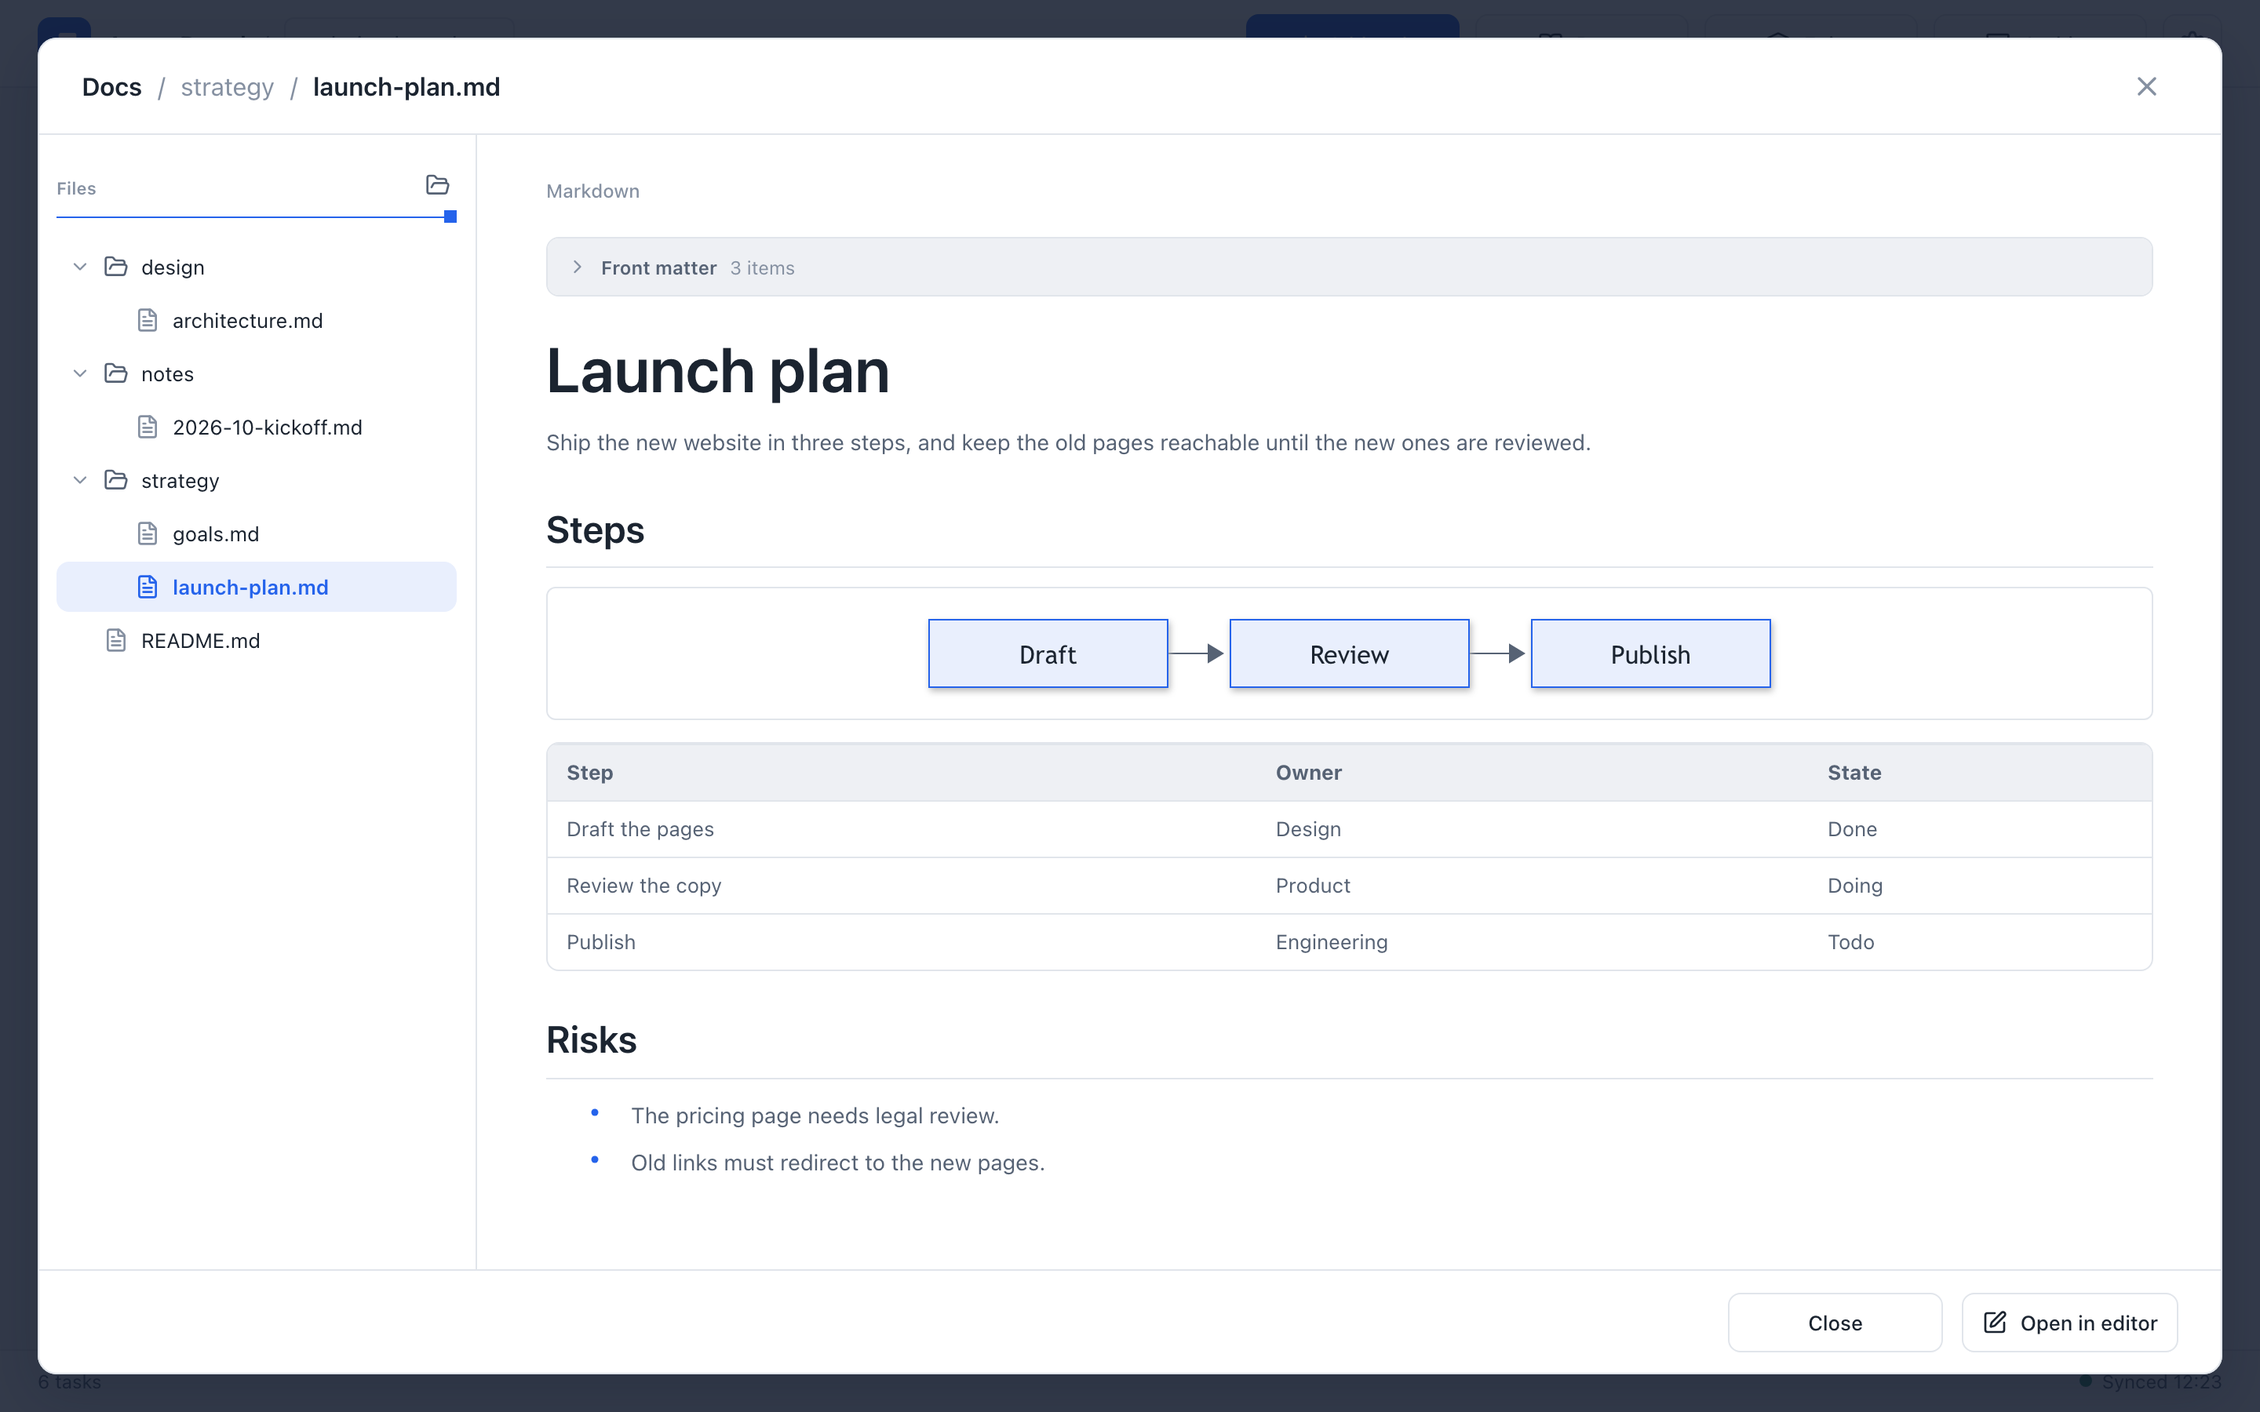
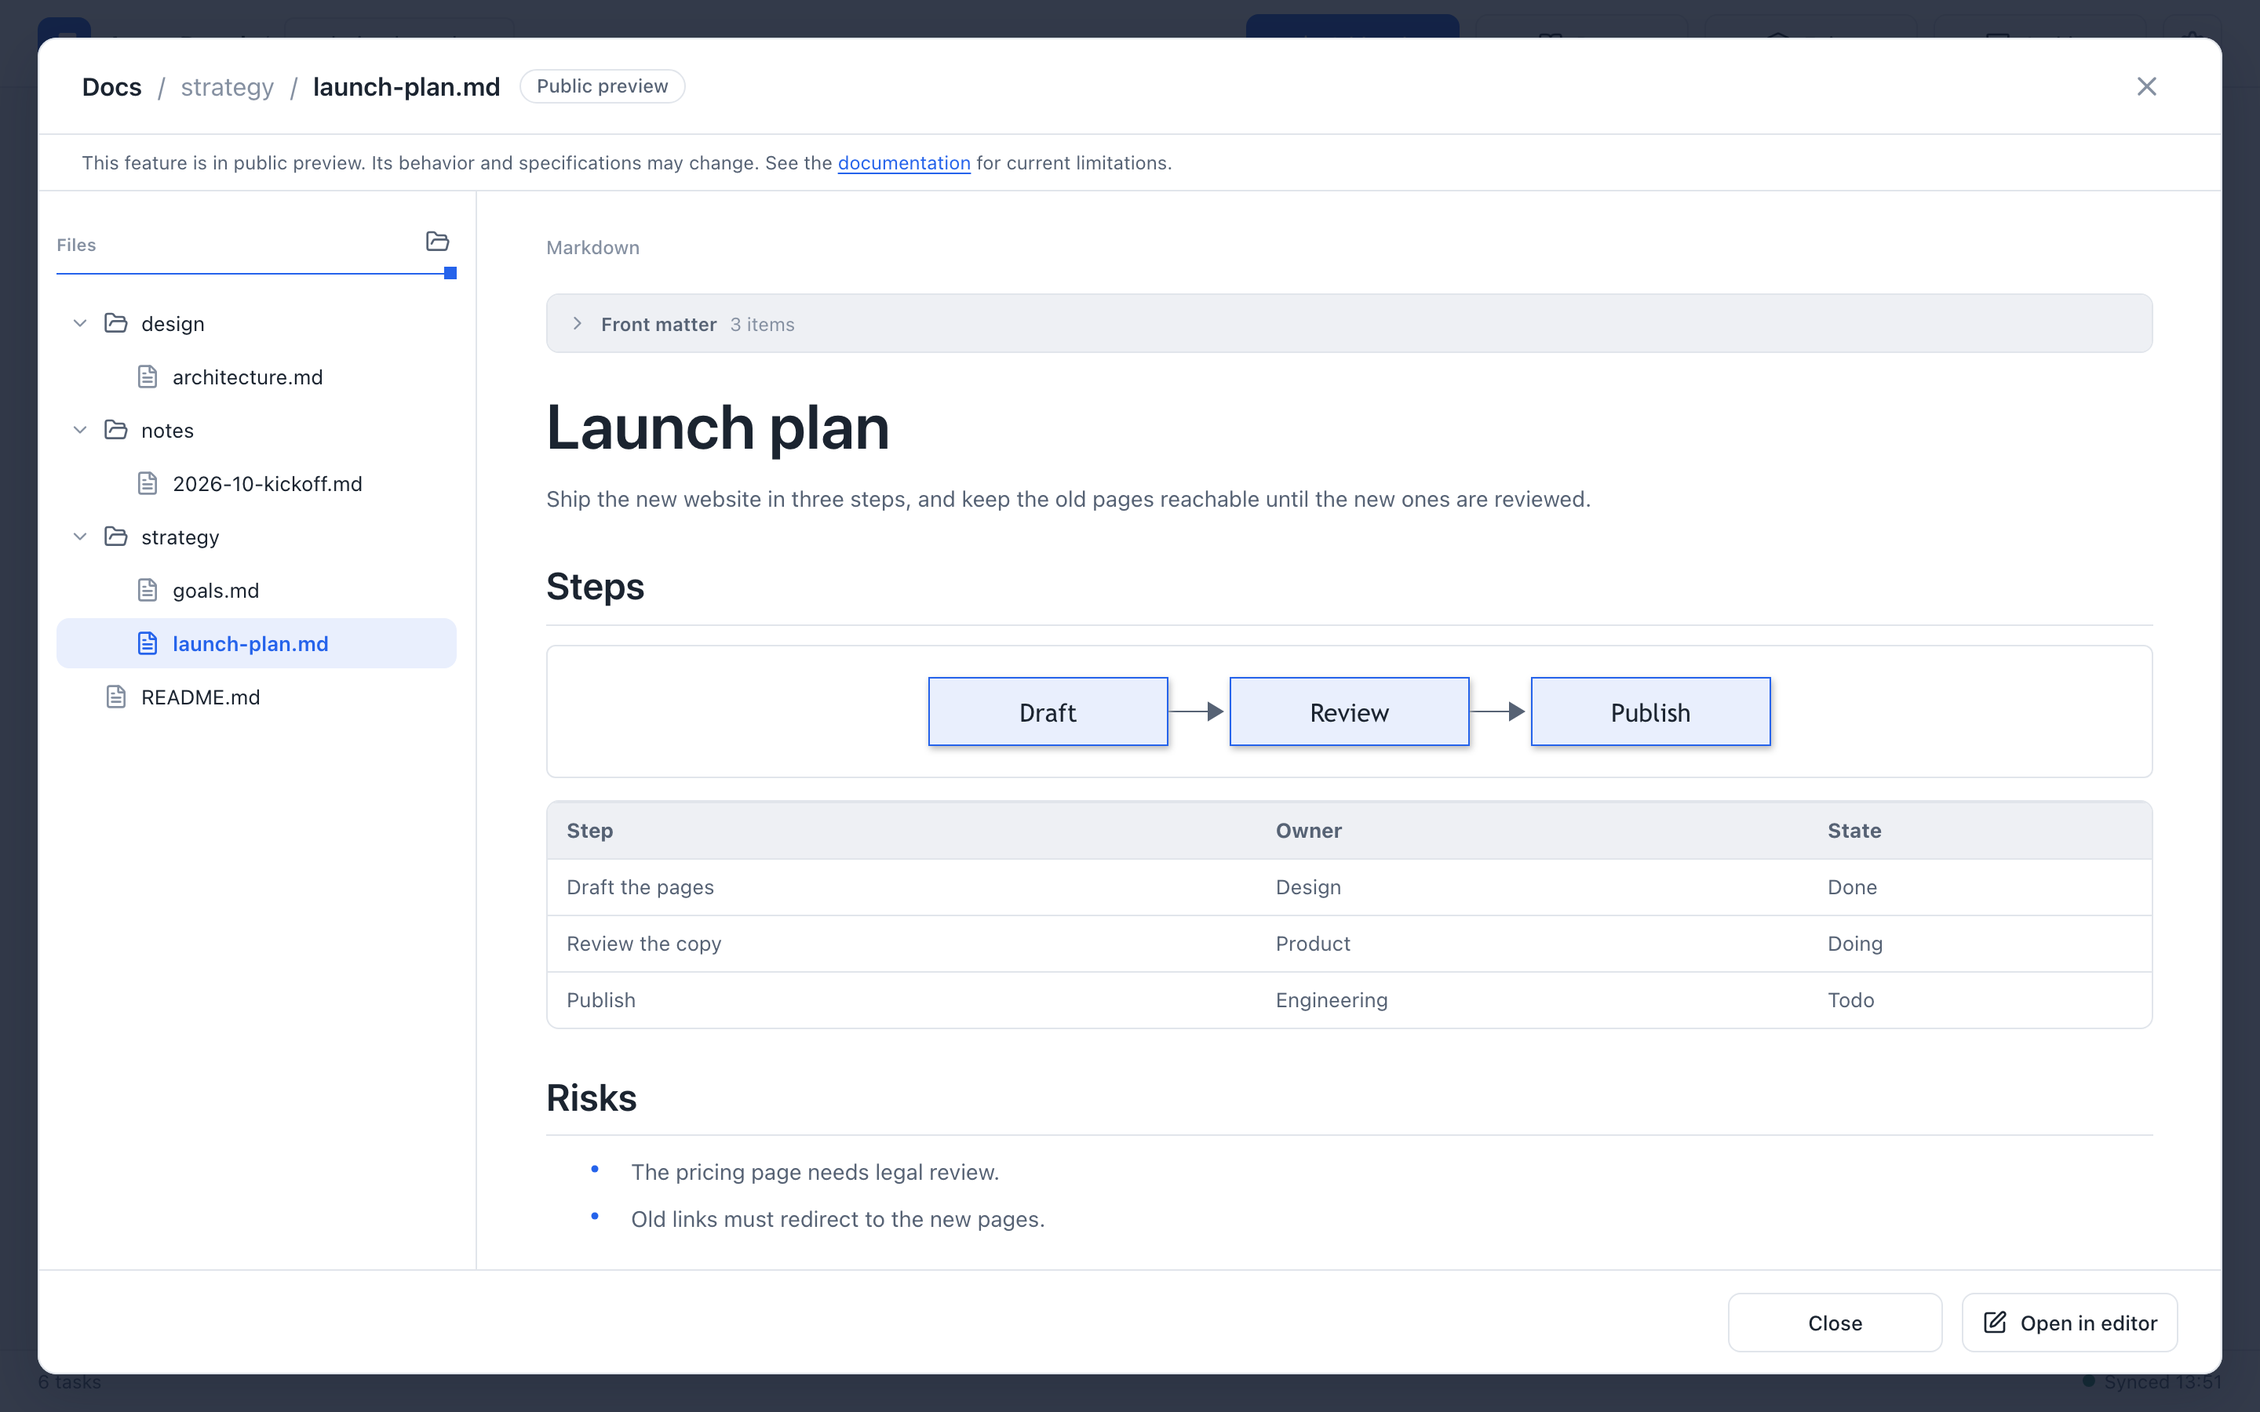
docs: explain GA and public preview features in English and Japanese

diff --git a/docs/ja/guide/feature-stages.md b/docs/ja/guide/feature-stages.md
@@ -1,0 +1,96 @@
+---
+title: 機能の提供段階
+---
+
+# 機能の提供段階
+
+Agent Board v1.0.0の機能は、一般提供（GA）とパブリックプレビューのどちらかの段階にあります。このページでは、それぞれの段階の意味、各段階の機能、プレビューの機能を使う前に知っておきたい制約をまとめます。v1.0.0にはどちらの段階も含まれていて、すべての機能がGAというわけではありません。
+
+## 段階の意味
+
+| 段階 | 意味 | 意味しないこと |
+| --- | --- | --- |
+| 一般提供（GA） | このガイドの説明どおりに動作し、当面はその仕様で運用していく機能です。今後の変更は、機能を足す方向を想定しています。 | 不具合がないことを意味しません。互換性やサポートを無期限に保証するものでもありません。 |
+| パブリックプレビュー | 試していただくために公開している機能です。今後の版で動作や仕様が変わる可能性があり、後述の制約があります。 | 機能の利用を制限したり、ライセンスを変えたりするものではありません。 |
+
+段階は、その機能が今後どれだけ変わりうるかを表します。どれだけ入念に試験したかを表すものではありません。よく使われる機能が、それだけでGAになるわけでもありません。
+
+## 製品内の表示
+
+パブリックプレビューの機能は、使う前に次の注意を表示します。
+
+> この機能はパブリックプレビューです。仕様や動作が変更される可能性があります。現在の制約はドキュメントをご確認ください。
+
+表示される場所は次のとおりです。
+
+| 機能 | 表示される場所 |
+| --- | --- |
+| [Docs](#docs) | Docsダイアログの見出しに「パブリックプレビュー」のバッジが付き、その下に注意文とこのページへのリンクが出ます。 |
+| [モバイルモニター](#mobile-monitor) | パソコンの「モバイル接続」ダイアログにバッジ、注意文、このページへのリンクが出ます。スマートフォンのモニターには出ません。 |
+| [初回の案内](#onboarding) | 最初の画面のタイトルの横にバッジが出ます。 |
+| [connectとupdate](#connect-and-update) | 対話画面の先頭に1行出ます。`Public preview: this command may change. See the documentation for current limitations.` `update --yes`は質問をしないため、この行を出しません。 |
+| [タスクの受け取り](#listen) | 画面はありません。このページとエージェントのSkillで説明します。 |
+
+GAの機能には、この表示はありません。
+
+## 一般提供（GA）の機能
+
+| 機能 | 対応範囲 | 既知の制約 | ガイド |
+| --- | --- | --- | --- |
+| タスクと作業状態 | macOS、パソコンのブラウザ、モバイルモニターでの閲覧 | Done・下書き・アーカイブのタスクは、エージェントが変更できません。 | [ボード](./use/board) |
+| 受入条件と履歴 | 同上 | 履歴の項目は、日時（`at`）と理由（`reason`）の2つだけです。 | [ボード](./use/board)、[Markdownファイルの形式](./automation/file-format) |
+| 本文の編集と画像 | パソコンのブラウザ | 画像には大きさの上限があります。 | [編集と画像添付](./use/editing) |
+| アーカイブと削除 | パソコンのブラウザ | 削除できるのは人だけです。 | [アーカイブ](./use/board#archive) |
+| 判断依頼と回答 | パソコン、モバイルモニター、CLI | エージェントは、既定では期限なしで回答を待ちます。`agboard serve`が動いている必要があります。 | [判断依頼](./use/decisions) |
+| エピックと進行表 | パソコンのブラウザ、CLI | 進行表にはPendingのタスクを含めません。 | [エピックと進行表](./use/epics) |
+| プロジェクトと作業フォルダ | CLI、パソコンのブラウザ | フォルダがどのプロジェクトに属するかは、最も近いbindで決まります。 | [CLIリファレンス](./automation/cli#projects) |
+| データの保存と復旧 | macOS | `formatVersion`が1のファイルだけに対応します。 | [データとバックアップ](./operations/data) |
+| 表示言語とテーマ | パソコン、モバイルモニター | 日本語と英語、24のテーマです。 | [設定](./use/board#settings) |
+| エージェント向けのCLI・JSON出力・Hook・`wait` | Claude Code、Codex CLI | HookとSkillは、導入しないと使えません。エージェントの起動は人が行います。 | [エージェントとの連携](./automation/agents) |
+
+## パブリックプレビューの機能
+
+### Docs {#docs}
+
+Docsダイアログで、プロジェクトの`docs/`フォルダにあるファイルを一覧して読めます。機能は今も変わり続けています。
+
+- **対応範囲:** パソコンのブラウザのボード。モバイルモニターにはDocsを表示しません。
+- **制約:** MarkdownとMDXのファイルは2 MiBまで、画像は10 MiBまでです。
+- **ガイド:** [プロジェクトのドキュメント](./use/docs)
+
+### connectとupdate {#connect-and-update}
+
+`agboard connect`は、Claude CodeとCodexにSkillとHookを導入します。`agboard update`は、`connect`が導入したものを、お使いのコマンドの版にそろえます。
+
+- **対応範囲:** macOS。`PATH`上にClaude CodeやCodex CLIが見つかる環境です。
+- **制約:** `update --yes`を除き、どちらのコマンドも対話式です。Hookが変わったときは、エージェントで信頼し直す必要があります。`update`が古い版を入れ直すことはありません。エージェントごとの範囲指定、ドライラン、JSON出力はありません。今後加わる可能性があります。
+- **ガイド:** [エージェントとの連携](./automation/agents#connect-your-agent)、[CLIリファレンス](./automation/cli#connect-and-update)
+
+### タスクの受け取り {#listen}
+
+`agboard wait --until task`で、開いているClaude CodeやCodexの1つのセッションが、AIのタスクを続けて受け取れます。
+
+- **対応範囲:** Claude CodeとCodex。エージェントのSkillにある手順に従います。
+- **制約:** 複数のセッションが同じタスクを受け取らないことは保証しません。連続して実行する操作は、人がエージェントのセッションで始めます。
+- **ガイド:** [次のタスクを待つ](./automation/agents#listen-for-the-next-task)
+
+### モバイルモニター {#mobile-monitor}
+
+モバイルモニターは、スマートフォンでボードを確認し、エージェントの質問に答えるための画面です。
+
+- **対応範囲:** スマートフォンのブラウザ。ngrokを経由します。
+- **制約:** ngrokに依存し、HTTPSはngrokで終端されます。パソコンが起動していて、`agboard serve`が動いている間だけ使えます。接続の方式は今後変わる可能性があります。
+- **ガイド:** [モバイルモニター](./operations/mobile-monitor)
+
+### 初回の案内 {#onboarding}
+
+ボードを初めて開くと、2枚のサンプルカードで、エージェントがカードで作業し、判断を求める流れを短く案内します。
+
+- **対応範囲:** パソコンのブラウザのボード。
+- **制約:** データ領域にすでにプロジェクトがあるときと、モバイルモニターでは表示しません。
+- **ガイド:** [初回の案内](./use/board#the-first-run-guide)、[クイックスタート](./quickstart#before-you-start-the-first-run-guide)
+
+## 関連
+
+- [インストールと起動](./getting-started)
+- [リリースノート](/ja/releases)

diff --git a/docs/guide/feature-stages.md b/docs/guide/feature-stages.md
@@ -1,0 +1,96 @@
+---
+title: Feature stages
+---
+
+# Feature stages
+
+Every feature in Agent Board v1.0.0 is in one of two stages: general availability (GA) or public preview. This page explains what each stage means, lists the features in each, and states the limits you should know before you rely on a preview feature. Version 1.0.0 mixes both stages, so not every feature in it is GA.
+
+## What the stages mean
+
+| Stage | What it means | What it does not mean |
+| --- | --- | --- |
+| General availability (GA) | The feature works the way it is described in this guide, and we plan to keep it that way for a good while. Later changes are meant to add to it. | It does not mean the feature is free of bugs. It is not a promise of unlimited compatibility or support. |
+| Public preview | The feature is published so you can try it. Its behavior and specifications may change in a later version, and the limits listed below apply. | It does not restrict what you can do with the feature or change its license. |
+
+The stage describes how much the feature may still change. It does not say how thoroughly the feature has been tested, and a feature does not become GA just because it is used often.
+
+## Notice in the product
+
+A public preview feature tells you before you use it. The notice says:
+
+> This feature is in public preview. Its behavior and specifications may change. See the documentation for current limitations.
+
+Where you see it:
+
+| Feature | Where the notice appears |
+| --- | --- |
+| [Docs](#docs) | The heading of the Docs dialog shows a **Public preview** badge, with the notice and a link to this page below it. |
+| [Mobile monitor](#mobile-monitor) | The **Mobile connection** dialog on the computer shows the badge, the notice, and a link to this page. The monitor on the phone does not show it. |
+| [First-run welcome](#onboarding) | The first screen shows the badge next to its title. |
+| [connect and update](#connect-and-update) | The interactive screen of each command starts with one line: `Public preview: this command may change. See the documentation for current limitations.` `update --yes` asks no question, so it prints no such line. |
+| [Task listening](#listen) | No screen. This page and the agent skill describe it. |
+
+Features that are GA show no notice.
+
+## Features in general availability
+
+| Feature | Supported range | Known limits | Guide |
+| --- | --- | --- | --- |
+| Tasks and run states | macOS, the board in a PC browser, viewing on the mobile monitor | An agent cannot change a task that is Done, a draft, or archived. | [The board](./use/board) |
+| Acceptance conditions and history | Same | A history entry has only a time (`at`) and a reason (`reason`). | [The board](./use/board), [Markdown file format](./automation/file-format) |
+| Editing text and images | PC browser | Image size limits apply. | [Editing and image attachments](./use/editing) |
+| Archive and delete | PC browser | Only a person deletes. | [Archive](./use/board#archive) |
+| Decisions and answers | PC, mobile monitor, CLI | An agent waits for your answer without a time limit by default, and `agboard serve` has to be running. | [Decisions](./use/decisions) |
+| Epics and progress table | PC browser, CLI | The progress table leaves out Pending tasks. | [Epics and progress](./use/epics) |
+| Projects and working folders | CLI, PC browser | The nearest bound folder decides which project a folder belongs to. | [CLI reference](./automation/cli#projects) |
+| Saving and recovery of data | macOS | Only files with `formatVersion` 1 are supported. | [Data and backups](./operations/data) |
+| Language and themes | PC, mobile monitor | English and Japanese, and 24 themes. | [Settings](./use/board#settings) |
+| Agent CLI, JSON output, Hook, and `wait` | Claude Code, Codex CLI | The Hook and the skill need the version you installed. You start the agent yourself. | [Working with agents](./automation/agents) |
+
+## Features in public preview
+
+### Docs {#docs}
+
+The Docs dialog lets you browse and read the files in a project's `docs/` folder. The feature is still changing.
+
+- **Supported range:** the board in a PC browser. The mobile monitor does not show Docs.
+- **Limits:** a Markdown or MDX file can be up to 2 MiB, and an image up to 10 MiB.
+- **Guide:** [Project docs](./use/docs).
+
+### connect and update {#connect-and-update}
+
+`agboard connect` installs the Skill and the Hook for Claude Code and Codex. `agboard update` brings what `connect` installed up to the version of your command.
+
+- **Supported range:** macOS, with Claude Code and Codex CLI found on your `PATH`.
+- **Limits:** both commands are interactive, except `update --yes`. After the Hook changes, you trust it again in the agent. `update` never installs an older version. They do not offer a separate scope for each agent, a dry run, or JSON output; those may be added later.
+- **Guide:** [Working with agents](./automation/agents#connect-your-agent) and the [CLI reference](./automation/cli#connect-and-update).
+
+### Task listening {#listen}
+
+`agboard wait --until task` lets one open Claude Code or Codex session keep picking up AI tasks one after another.
+
+- **Supported range:** Claude Code and Codex, following the procedure in the agent skill.
+- **Limits:** it does not guarantee that two sessions will not pick the same task. A person starts the continuous run in the agent's session.
+- **Guide:** [Listen for the next task](./automation/agents#listen-for-the-next-task).
+
+### Mobile monitor {#mobile-monitor}
+
+The mobile monitor shows the board on a phone and lets you answer an agent's question.
+
+- **Supported range:** the browser of a smartphone, through ngrok.
+- **Limits:** it depends on ngrok, and ngrok ends the HTTPS connection. It works only while your computer is on and `agboard serve` is running. The way it connects may change.
+- **Guide:** [Mobile monitor](./operations/mobile-monitor).
+
+### First-run welcome {#onboarding}
+
+The first time you open a board, a short guide with two sample cards shows how an agent works on a card and asks you for a decision.
+
+- **Supported range:** the board in a PC browser.
+- **Limits:** it does not appear when the data area already has a project, and it does not appear on the mobile monitor.
+- **Guide:** [The first-run guide](./use/board#the-first-run-guide) and the [Quickstart](./quickstart#before-you-start-the-first-run-guide).
+
+## Related
+
+- [Install and start](./getting-started)
+- [Release notes](/releases)
